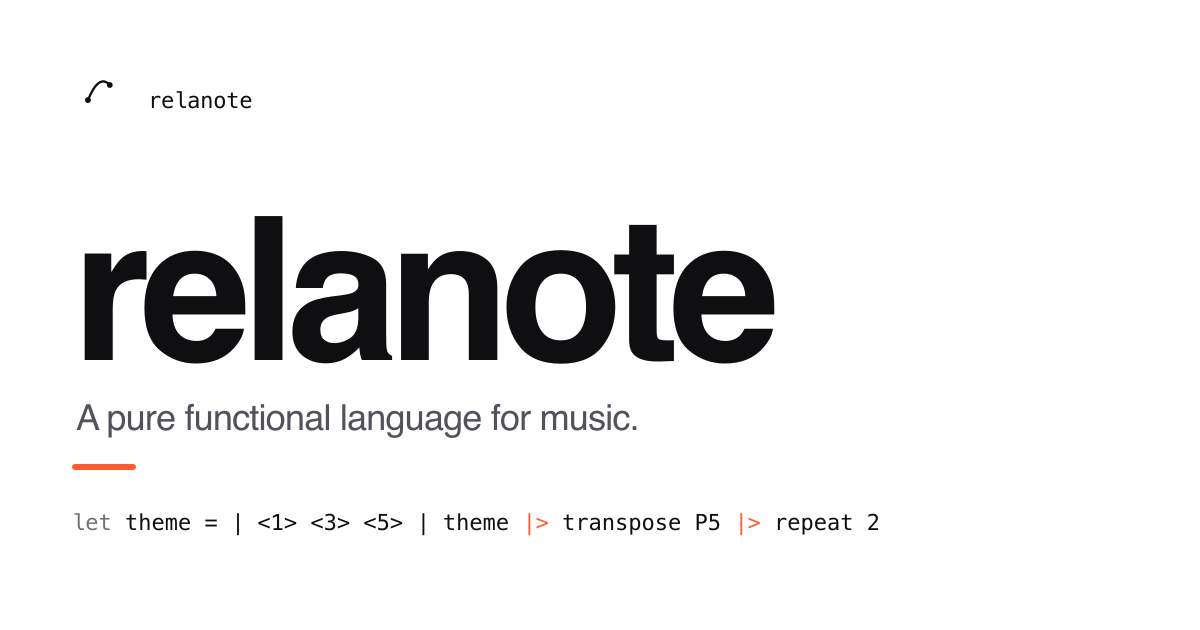
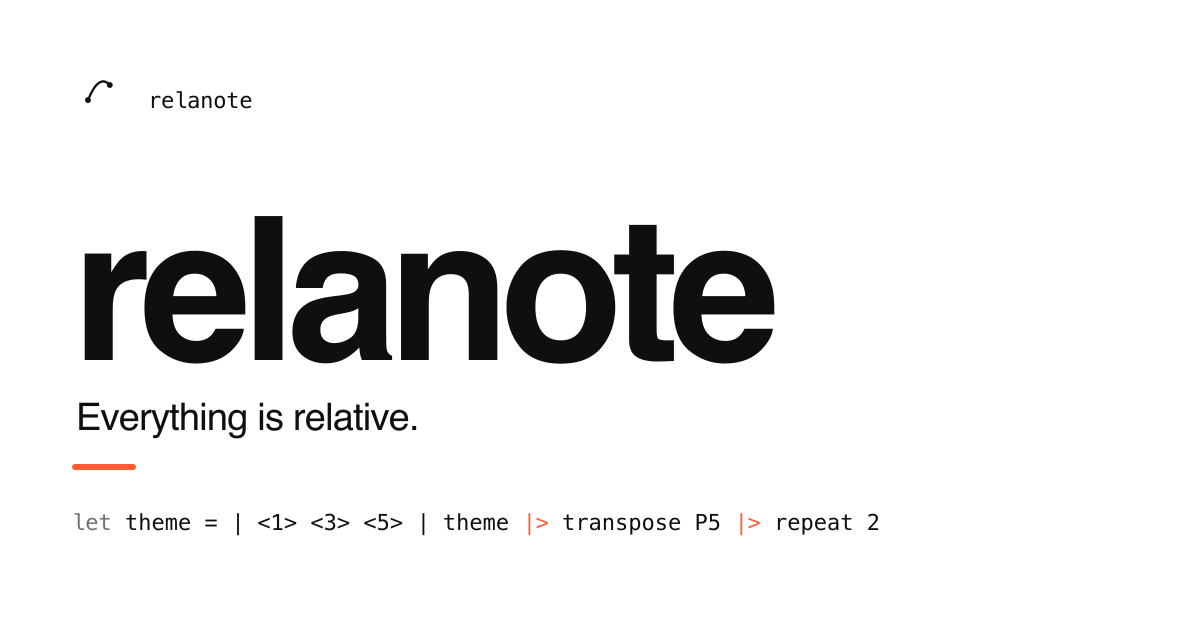
docs: re-foreground 'Everything is relative' across hero and intro
The previous design pass swapped the headline to "Music as a function",
which is accurate but generic — any pure functional toolkit could claim
it. The actual brand line is **"Everything is relative."**: pitch is
relative, rhythm is relative, chords are intervals over a root, sections
are blocks over a beat-grid, layers are parts over time. That single
claim is what differentiates relanote from every other
music-as-code project, and dropping it from the surface was a mistake.

This commit puts it back where it belongs and rewrites the supporting
copy so it reinforces the claim instead of restating it:

- `docs/index.md`: hero text becomes "Everything is relative.", tagline
  cashes the claim in one sentence, four feature cards are re-grouped
  around the two halves of "relative" ("Pitch is relative" / "Rhythm is
  relative") with the engineering surface ("Pure, typed, total" /
  "Pipes for composition") behind them. The body adds a short "Relative
  all the way down" paragraph that names every level of the language
  built out of relationships.
- `README.md`: same voice, same headline. Emoji bullets stay gone.
- `docs/guide/introduction.md`: rewritten end-to-end. Opens with the
  single big idea, then unpacks pitch-is-relative and rhythm-is-relative
  in order before functional / typed properties. Removes the
  "Why? bullet list" pattern that read like a feature comparison.
- `docs/tutorial/getting-started.md`: tightened opening — drops the
[…]

Changed region(s): [[0.0617, 0.6333, 0.5242, 0.6937]]

diff --git a/docs/.vitepress/config.ts b/docs/.vitepress/config.ts
@@ -180,7 +180,7 @@ const base = process.env.GITHUB_ACTIONS ? "/relanote/" : "/";
 
 export default defineConfig({
   title: "Relanote",
-  description: "A pure functional, statically-typed music notation language",
+  description: "Everything is relative. A pure functional, statically-typed language for music.",
   base,
 
   vite: {
@@ -197,7 +197,7 @@ export default defineConfig({
       "meta",
       {
         property: "og:description",
-        content: "Music as a function. A pure functional, statically-typed language for music.",
+        content: "Everything is relative. A pure functional, statically-typed language for music.",
       },
     ],
     ["meta", { property: "og:image", content: `https://ubugeeei.github.io${base}og-image.png` }],
@@ -210,7 +210,7 @@ export default defineConfig({
       "meta",
       {
         name: "twitter:description",
-        content: "Music as a function. A pure functional, statically-typed language for music.",
+        content: "Everything is relative. A pure functional, statically-typed language for music.",
       },
     ],
     ["meta", { name: "twitter:image", content: `https://ubugeeei.github.io${base}og-image.png` }],

diff --git a/docs/guide/introduction.md b/docs/guide/introduction.md
@@ -1,103 +1,96 @@
-# What is Relanote?
+# What is relanote?
 
-Relanote is a **pure functional**, **statically-typed** programming language designed specifically for describing music. Unlike traditional notation or MIDI programming, Relanote uses **relative intervals** as its foundation, making transposition, modulation, and musical transformations natural and effortless.
+**relanote** is a pure functional, statically-typed language for music.
+It has a single big idea: **everything is relative**. Pitch is relative.
+Rhythm is relative. Chords are intervals over a root, sections are
+blocks over a beat-grid, parts are sections over an instrument, layers
+are parts over time. A line is the relationship between its notes;
+nothing in the language pins music to where it absolutely sits.
 
-## Why Relative Intervals?
+That's not a stylistic preference. It's the entire design.
 
-Traditional music notation and most programming approaches use absolute pitches (C4, D4, E4...). This creates problems:
+## Pitch is relative
 
-- **Transposition requires rewriting** - Moving a melody up a step means changing every note
-- **Modal thinking is awkward** - Scale degrees are fundamental to music theory but secondary in absolute systems
-- **Patterns are obscured** - A "I-IV-V progression" looks different in every key
+Conventional notation and most code-based approaches tie pitches to
+absolute positions: `C4`, `D4`, `E4`. That's fine for engraving — and
+the worst possible shape for software. Transpose a melody and every
+pitch needs rewriting. Try a different mode and you start over. The
+musical idea is hidden inside the encoding.
 
-Relanote solves these by making intervals first-class:
+relanote describes lines by their **scale-degree references** instead:
 
 ```rela
-; Define a scale
 scale Major = { R, M2, M3, P4, P5, M6, M7 }
 
-; This melody works in ANY key
-let melody = | <1> <3> <5> <3> <1> |
-
-; Transform with builtins
-let transformed = melody |> transpose P5
-
-transformed
+; Five degrees, in any key, in any mode.
+let theme = | <1> <3> <5> <3> <1> |
 ```
 
-## Why Relative Rhythm?
-
-Traditional notation ties rhythm to absolute values (quarter notes, eighth notes...). Relanote uses **relative rhythm** within blocks:
+`<1>` is the root, `<3>` is the third, `<5>` is the fifth — of whatever
+scale is in scope. The same five symbols play `C-E-G-E-C` in C major,
+`G-B-D-B-G` in G major and `D-F-A-F-D` in D minor. Switching key is one
+edit. Switching mode is one edit. Transposing for a different instrument
+is one function call:
 
 ```rela
-scale Major = { R, M2, M3, P4, P5, M6, M7 }
+theme |> transpose P5
+```
 
-; 4 notes = each is 1/4 of the block duration
+## Rhythm is relative
+
+Conventional notation pins rhythm to absolute durations too — quarter
+notes, eighth notes, milliseconds. relanote's blocks share a slot
+**equally** among the notes inside them:
+
+```rela
+; Four notes share the slot equally.
 let fast = | <1> <3> <5> <3> |
 
-; 2 notes = each is 1/2 of the block duration
+; Two notes share the same slot — each at half the density of `fast`.
 let slow = | <1> <5> |
 
-; Both blocks take the same total time!
+; Both blocks take the same total time. Density is what changed.
 fast ++ slow
 ```
 
-This approach brings the same benefits as relative pitch:
+Tempo changes the *length* of the slot, not the *shape* inside it.
+Double the tempo and you don't rewrite anything.
 
-- **Tempo-independent patterns** - Double tempo without rewriting
-- **Natural feel** - Think in beats and subdivisions, not milliseconds
-- **Composability** - Combine blocks of different densities seamlessly
+## Everything else, recursively
 
-## Functional Approach
+Once pitch and rhythm are relative, the rest follows. A chord is
+intervals over a root. A section is blocks over a beat-grid. A part is
+a section played by an instrument. A layer is parts running in parallel.
+The whole language is built out of relationships, and the runtime
+unwinds them when it's time to produce sound.
 
-Relanote embraces functional programming principles:
+## Functional, pure, typed
 
-### Immutability
+relanote is also a programming language, with the things you'd expect:
 
-Values never change. Transformations create new values:
-
-```rela
-scale Major = { R, M2, M3, P4, P5, M6, M7 }
-
-let original = | <1> <2> <3> |
-let reversed = original |> reverse  ; original unchanged
-```
-
-### First-Class Functions
-
-Functions are values. Pass them around, compose them:
-
-```rela
-let transform = transpose M3 >> reverse >> repeat 2
-melody |> transform
-```
-
-### Pure Functions
-
-No side effects. Same input always produces same output:
-
-```rela
-let doubled = melody |> map (\n -> n + P8)
-```
-
-## Static Typing
-
-Relanote catches errors before you hear them:
+- **Immutable values.** Transformations return new values; the originals
+  never change.
+- **First-class functions.** Pass them, compose them, store them.
+- **Pure functions.** No hidden state, no surprise side effects.
+- **Hindley-Milner type inference.** The type checker rejects programs
+  that would have produced nonsense at runtime.
 
 ```rela
 scale Major = { R, M2, M3, P4, P5, M6, M7 }
 
-; Type error: can't add a Scale to an Interval
-let wrong = Major + P5  ; Compile error
+; Compile error: a Scale and an Interval don't add.
+let wrong = Major + P5
 
-; Correct: transpose the scale
+; OK: transpose the scale by a perfect fifth.
 let correct = Major |> transpose P5
 ```
 
-## What Can You Build?
+## What you can build
 
-- **Melodies** using scale degrees and intervals
-- **Chord progressions** with functional harmony
-- **Multi-part arrangements** with parts and sections
-- **Algorithmic compositions** using map, filter, and recursion
-- **MIDI files** for DAW integration
+- Melodies with scale-degree references and intervals.
+- Chord progressions with functional harmony.
+- Multi-part arrangements with parts, sections and layers.
+- Algorithmic compositions using `map`, `filter`, `fold` and recursion.
+- Standard MIDI files ready for any DAW.
+
+Ready to write one? Start with the [Quick Start](./quick-start).

diff --git a/docs/index.md b/docs/index.md
@@ -3,8 +3,8 @@ layout: home
 
 hero:
   name: relanote
-  text: Music as a function.
-  tagline: A pure functional, statically-typed language that describes music by what it relates to — not by where it sits on a staff.
+  text: Everything is relative.
+  tagline: A pure functional, statically-typed language for music. Pitch is relative. Rhythm is relative. The shape doesn't change when the key does.
   image:
     light: /logo.svg
     dark: /logo-dark.svg
@@ -21,17 +21,17 @@ hero:
       link: https://github.com/ubugeeei/relanote
 
 features:
-  - title: Everything is relative
-    details: Write <code>&lt;1&gt; &lt;3&gt; &lt;5&gt;</code> and the melody works in any key, any scale, any time. Transpose, modulate and reshape without rewriting a single note.
+  - title: Pitch is relative
+    details: Write <code>&lt;1&gt; &lt;3&gt; &lt;5&gt;</code> once and the line works in every key, every mode, every scale. Transpose, modulate or reshape without rewriting a single note.
+  - title: Rhythm is relative
+    details: A block <code>| a b c d |</code> shares its slot equally among four notes; <code>| a b |</code> gives two notes the same slot at half the density. Tempo and meter don't change the shape.
   - title: Pure, typed, total
     details: Immutable values, first-class functions, Hindley-Milner inference. Music is data; transformations are functions. The type checker catches the rest at compile time.
   - title: Pipes for composition
     details: <code>theme |> transpose P5 |> repeat 2 |> reverb 0.3</code>. Build entire pieces by composing small functions — the same way you build software.
-  - title: MIDI out, web in
-    details: Render straight to a standard MIDI file, or drive the live playground directly in the browser. No DAW round-trips.
 ---
 
-## A two-line example
+## Two lines that wouldn't fit on a staff
 
 ```rela
 scale Major = { R, M2, M3, P4, P5, M6, M7 }
@@ -40,18 +40,20 @@ let theme = | <1> <3> <5> <3> <1> |
 theme |> transpose P5 |> repeat 2
 ```
 
-The block `| <1> <3> <5> <3> <1> |` reads as five scale-degree references
-played in the same time slot. `<1>` is the root, `<3>` is the third
-degree of whatever scale is in scope. Change the scale and the same
-expression resolves differently — that's *relative*.
+`| <1> <3> <5> <3> <1> |` is five **scale-degree references** sharing one
+slot. `<1>` is whatever the current scale calls its root, `<3>` is its
+third, `<5>` is its fifth. Swap the scale and the same five symbols play
+a different melody. Change the tempo and the line stretches or shrinks
+without a single edit.
 
-## Why "relative"?
+That's the whole idea: a line is the **relationship between its notes**,
+not the notes themselves.
 
-Notes on a staff are absolute: middle C is middle C is middle C. Code on
-a staff doesn't compose well — to transpose a melody you rewrite every
-pitch. relanote describes music the other way around. A line is the
-*relationship between its notes*, not the notes themselves. Everything
-downstream — chords, sections, layers, parts — is built out of these
-relationships.
+## Relative all the way down
+
+Chords are intervals over a root. Sections are blocks over a beat-grid.
+Parts are sections over an instrument. Layers are parts over time.
+Everything in the language is described by what it relates to — never by
+where it absolutely sits.
 
 The shape doesn't change when the key does. That's the point.

diff --git a/README.md b/README.md
@@ -19,11 +19,14 @@
 
 ## What is relanote?
 
-**relanote** is a pure functional, statically-typed language that
-describes music by what it *relates to* — not by where it sits on a
-staff. A line is the relationship between its notes; chords, sections,
-layers, parts are built out of those relationships. Change the key, the
-scale or the tempo, and the shape doesn't change. That's the point.
+**relanote** is a pure functional, statically-typed language for music
+where **everything is relative**. Pitch is relative — a melody is
+scale-degree references, not absolute pitches. Rhythm is relative — a
+block divides one slot equally among the notes inside it. Chords are
+intervals over a root, sections are blocks over a beat-grid, parts are
+sections over an instrument, layers are parts over time. Change the
+key, the scale or the tempo, and the *shape* doesn't change. That's the
+whole point.
 
 ```rela
 ; A scale is the seven intervals that define it.
@@ -39,15 +42,18 @@ theme |> transpose P5 |> repeat 2
 
 ## Features
 
-- **Everything is relative.** Pitches are scale-degree references, rhythm
-  is "n notes share this slot equally". Reshape music by reshaping the
-  scale, not by rewriting every pitch.
+- **Pitch is relative.** `<1> <3> <5>` works in every key, every mode,
+  every scale. Transpose, modulate or reshape without rewriting a single
+  pitch.
+- **Rhythm is relative.** `| a b c d |` shares its slot equally among
+  four notes; `| a b |` gives two notes the same slot at half the
+  density. Tempo and meter don't change the shape.
 - **Pure, typed, total.** Immutable values, first-class functions, and
   Hindley-Milner inference. No runtime surprises.
-- **Pipes for composition.** `theme |> transpose P5 |> repeat 2 |> reverb 0.3`.
-  Build pieces by composing small functions.
+- **Pipes for composition.** `theme |> transpose P5 |> repeat 2 |> reverb 0.3` —
+  build pieces by composing small functions.
 - **MIDI out, web in.** Render to a standard MIDI file or drive the live
-  playground directly in the browser — no DAW round-trips.
+  playground directly in the browser. No DAW round-trips.
 
 ## Quick Start
 

diff --git a/docs/tutorial/getting-started.md b/docs/tutorial/getting-started.md
@@ -1,23 +1,23 @@
-# Getting Started
+# Getting started
 
-Welcome to Relanote! This tutorial will guide you through creating your first musical composition using relative intervals and functional programming.
+The shortest path from zero to a piece of music. We'll write a few lines
+of relanote, see why "relative" matters, and render the result.
 
-## What You'll Learn
+By the end you'll have written:
 
-1. Understanding intervals
-2. Creating melodies with scale degrees
-3. Using pipes for transformation
-4. Rendering to MIDI
+1. An interval — the relationship between two notes.
+2. A scale-degree melody — pitches expressed by what they relate to.
+3. A pipe-driven transformation — composition the way you'd compose code.
+4. A MIDI file you can drop into any DAW.
 
-## Prerequisites
+If you don't have relanote installed locally, follow the
+[Installation guide](/guide/installation), or just open the
+[Playground](https://ubugeeei.github.io/relanote/playground/) and
+follow along in the browser.
 
-Make sure you have Relanote installed. If not, see the [Installation Guide](/guide/installation).
+## Your first program
 
-Or use the [Web Playground](https://ubugeeei.github.io/relanote/playground/) to follow along in your browser.
-
-## Your First Program
-
-Create a new file called `tutorial.rela` and add:
+Create `tutorial.rela`:
 
 ```rela
 ; My first Relanote program!
